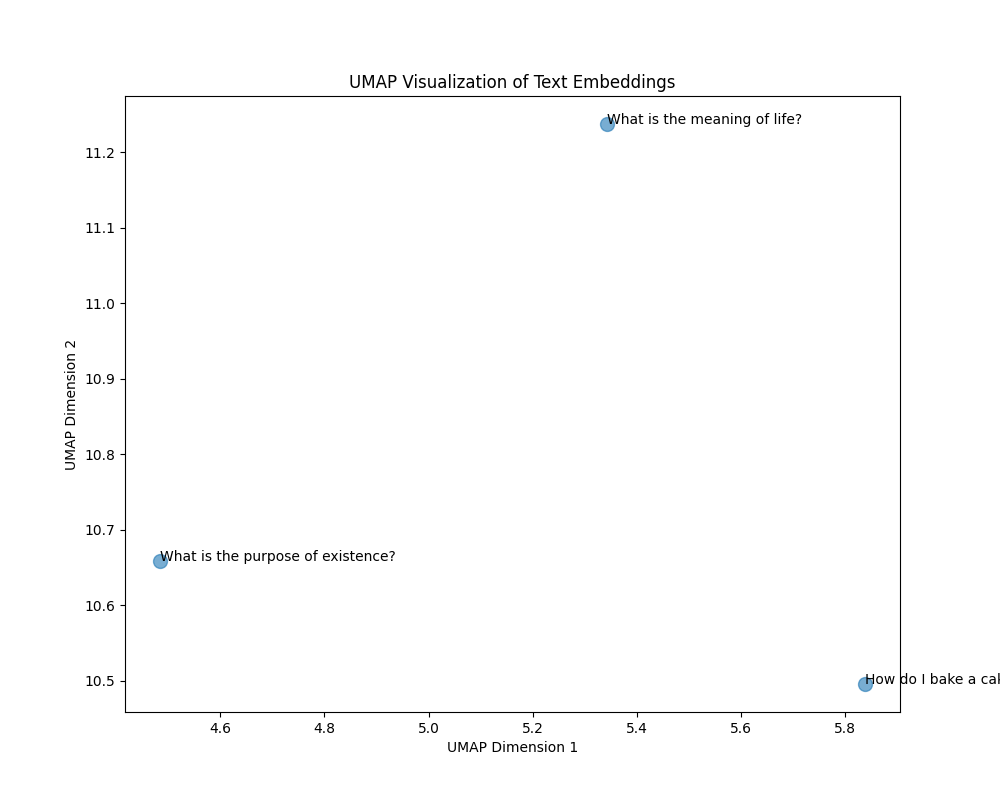
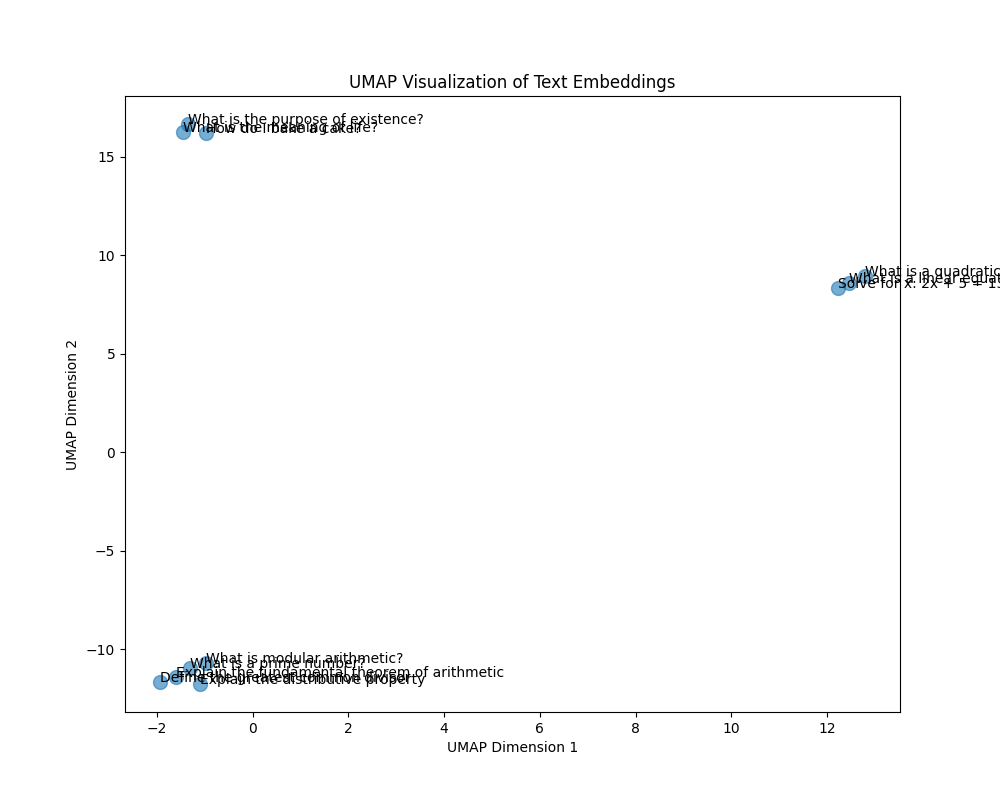
more ideas for plan

diff --git a/src/1.DomainEmbeddingSpace/gemini.py b/src/1.DomainEmbeddingSpace/gemini.py
@@ -10,7 +10,15 @@ client = genai.Client()
 texts = [
     "What is the meaning of life?",
     "What is the purpose of existence?",
-    "How do I bake a cake?"]
+    "How do I bake a cake?",
+    "Solve for x: 2x + 5 = 13",
+    "What is a linear equation?",
+    "Explain the distributive property",
+    "What is a quadratic equation?",
+    "What is a prime number?",
+    "Explain the fundamental theorem of arithmetic",
+    "What is modular arithmetic?",
+    "Define the greatest common divisor"]
 
 result = [
     np.array(e.values) for e in client.models.embed_content(
